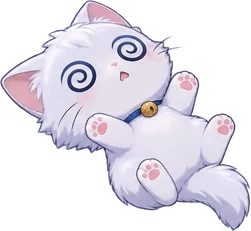
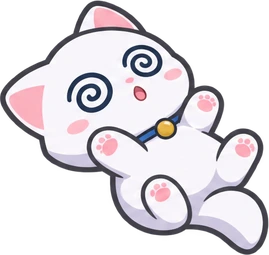
한울냥 그림을 단순한 아이콘풍(굵은 외곽선·단색+그림자 한 단계·SD 비율)으로 바꿈
Claude-Session: https://claude.ai/code/session_01B8pQbEtRSQUAPjrPy7M14y

diff --git a/sw.js b/sw.js
@@ -1,5 +1,5 @@
 // 한울아파트 — 서비스 워커. 앱 파일을 바꿔서 올릴 때마다 V를 1 올린다.
-const V = 'hanul-v23';
+const V = 'hanul-v24';
 const SHELL = ['./', 'index.html', 'style.css', 'app.js', 'features.js', 'study.js', 'plan.js', 'music.js', 'device.js', 'idle.js', 'voice.js', 'motion.js', 'face.js', 'neko.js', 'assets/ui/neko/sprites.json', 'data/faces.json', 'plan.html', 'plan.json', 'data/characters.json', 'manifest.json', 'icon-192.png', 'icon-512.png', 'assets/ui/elevator.webp', 'assets/ui/elevator-wide.webp'];
 self.addEventListener('install', e => { e.waitUntil(caches.open(V).then(c => c.addAll(SHELL)).catch(() => {})); self.skipWaiting(); });
 self.addEventListener('activate', e => { e.waitUntil(caches.keys().then(ks => Promise.all(ks.filter(k => k !== V).map(k => caches.delete(k)))).then(() => self.clients.claim())); });
